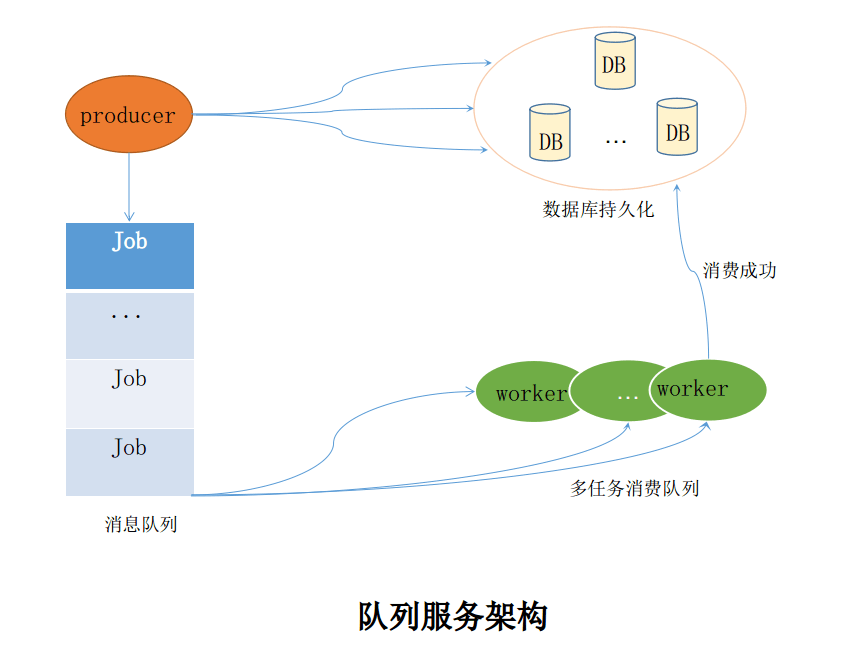
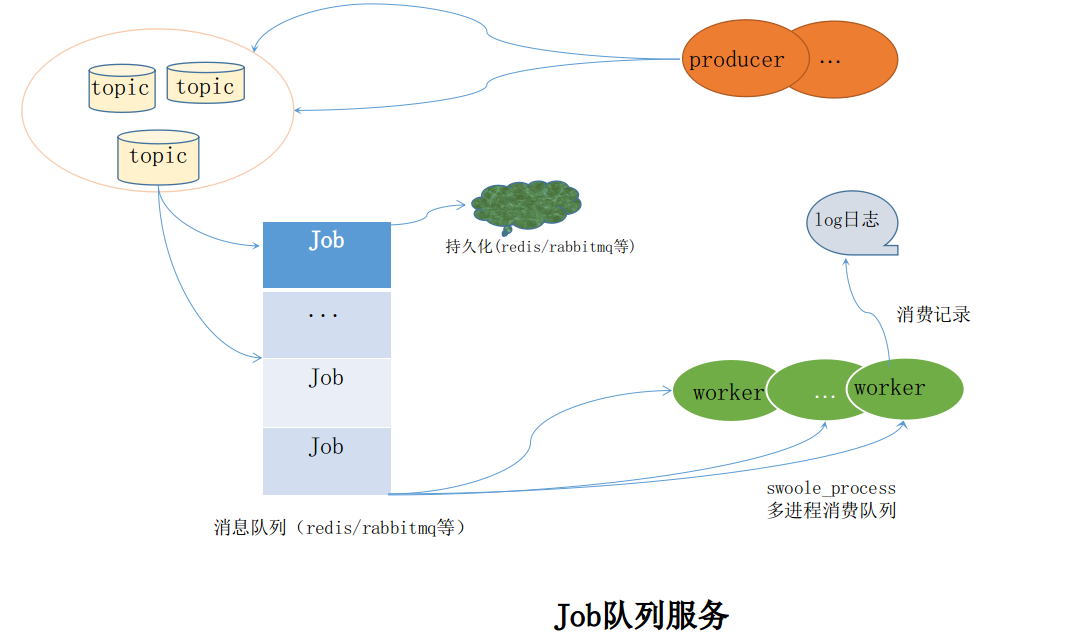
init

diff --git a/src/Jobs.php b/src/Jobs.php
@@ -2,44 +2,55 @@
 
 namespace Kcloze\Jobs;
 
-use Kcloze\Queue;
-
 class Jobs
 {
 
-    const MAX_POP = 100; //单个topic每次最多取多少次
+    const MAX_POP = 10; //单个topic每次最多取多少次
 
     public function run($config)
     {
-
-        $queue = new Queue($config);
+        $queue = new Redis($config);
         while (true) {
-            $topics = $queue->getTopics();
-            //遍历topic任务列表
-            foreach ($topics as $jobAction => $data) {
-                //每次最多取MAX_POP个任务执行
-                for ($i = 0; $i < self::MAX_POP; $i++) {
-                    $data = $queue->pop($jobAction);
-                    if (!empty($data) && method_exists($this, $jobAction . 'Action')) {
-                        $this->$jobAction . 'Action'($data);
-                    } else {
-                        echo "action not exists!\n";
-                    }
 
+            $topics = $queue->getTopics();
+            if ($topics) {
+
+                //遍历topic任务列表
+                foreach ($topics as $key => $jobName) {
+                    //每次最多取MAX_POP个任务执行
+                    for ($i = 0; $i < self::MAX_POP; $i++) {
+                        $data = $queue->pop($jobName);
+
+                        if (!empty($data) && isset($data['jobAction'])) {
+                            $jobName   = "Kcloze\MyJob\\" . ucfirst($jobName);
+                            $jobAction = $data['jobAction'];
+                            var_dump($jobName, $jobAction);
+                            if (method_exists($jobName, $jobAction)) {
+                                try {
+                                    $job = new $jobName();
+                                    $job->$jobAction($data);
+                                    var_dump($data);
+                                    echo ("one job has been done!\n");
+                                } catch (Exception $e) {
+                                    var_dump($e);
+                                }
+                            } else {
+                                echo ("action not find\n");
+                            }
+
+                        } else {
+                            break;
+                        }
+
+                    }
                 }
+            } else {
+                echo "no work to do!\n";
             }
+            echo "sleep one second!\n";
             sleep(1);
         }
 
     }
 
-    /**
-     * job action
-     * @param  [data] string
-     * @return [type]
-     */
-    public function helloAction($data)
-    {
-        echo "hello, world\n";
-    }
 }

diff --git a/src/Process.php b/src/Process.php
@@ -14,12 +14,14 @@ class Process
 {
     private $reserveProcess;
     private $workNum = 5;
+    private $config  = [];
 
     //const LOG_PATH = '/data/';
 
-    public function start()
+    public function start($config)
     {
-        \swoole_process::daemon();
+        //\swoole_process::daemon();
+        $this->config = $config;
         //开启多个进程消费队列
         for ($i = 0; $i < $this->workNum; $i++) {
             $this->reserveQueue($i);
@@ -33,7 +35,7 @@ class Process
         //$this->log('starting to run');
         $self = $this;
         $pid  = getmypid();
-        file_put_contents(APP_PATH . '/data/master.pid.log', $pid . "\n");
+        file_put_contents($this->config['logPath'] . '/master.pid.log', $pid . "\n");
         \swoole_set_process_name("job master " . $pid . " : reserve process");
         $this->reserveProcess = new \swoole_process(function () use ($self, $workNum) {
 
@@ -42,8 +44,8 @@ class Process
             //设置进程名字
             swoole_set_process_name("job " . $workNum . ": reserve process");
             try {
-                $job = Jobs();
-                $job->run();
+                $job = new Jobs();
+                $job->run($this->config);
             } catch (Exception $e) {
                 echo $e->getMessage();
             }
@@ -63,7 +65,7 @@ class Process
 
     private function log($txt)
     {
-        file_put_contents(APP_PATH . '/data/worker.log', $txt . "\n", FILE_APPEND);
+        file_put_contents($this->config['logPath'] . '/worker.log', $txt . "\n", FILE_APPEND);
     }
 
 }

diff --git a/test/testJobs.php b/test/testJobs.php
@@ -1,26 +1,30 @@
 <?php
 date_default_timezone_set('Asia/Shanghai');
-define('DS', DIRECTORY_SEPARATOR);
-define('APP_PATH', realpath(dirname(__FILE__)) . DS . '..' . DS);
 
-require_once APP_PATH . 'src/Jobs.php';
-require_once APP_PATH . 'src/Queue.php';
-require_once APP_PATH . 'src/Process.php';
+require __DIR__ . '/../vendor/autoload.php';
 
-$config = ['host' => '127.0.0.1', 'port' => 6379];
+$config = [
+    'queue'   => ['host' => '127.0.0.1', 'port' => 6379],
+    'logPath' => __DIR__ . '/../log',
+];
 
-$queue = new Kcloze\Jobs\Queue($config);
+$queue = new Kcloze\Jobs\Redis($config);
 
 //jobs必须要存在helloAction方法，否则无效
-$jobAction = 'hello';
-$queue->addTopic($jobAction);
+$jobName = 'MyJob';
+$queue->addTopic($jobName);
+$topics = $queue->getTopics();
+var_dump($topics);
 
-for ($i = 0; $i < 100; $i++) {
-    $data = ['title' => 'kcloze', 'time' => time()];
-    $queue->push($jobAction, $data);
+for ($i = 0; $i < 10; $i++) {
+    $data = ['jobAction' => 'helloAction', 'title' => 'kcloze', 'time' => time()];
+    $queue->push($jobName, $data);
     echo "ok\n";
+    //$result = $queue->pop($jobName);
+    //var_dump($result);
 }
-
+$result = $queue->pop($jobName);
+var_dump($result);
 // for ($i = 0; $i < 100; $i++) {
 //     $data = $queue->pop('hello');
 //     $jobs = new Jobs();

diff --git a/src/Redis.php b/src/Redis.php
@@ -1,0 +1,49 @@
+<?php
+/**
+ *
+ * redis做队列服务
+ * 如果需要使用rabbitmq/zeromq等其他队列，可以继承queue类
+ */
+
+namespace Kcloze\Jobs;
+
+use Kcloze\Jobs\Queue;
+
+class Redis extends Queue
+{
+    const TOPIC_LIST_NAME = 'topic_list';
+
+    private $redis = null;
+
+    public function __construct(array $config)
+    {
+        $this->redis = new \Redis();
+        try {
+            $this->redis->connect($config['queue']['host'], $config['queue']['port']);
+        } catch (Exception $e) {
+            echo $e->getMessage() . "\n";
+        }
+    }
+
+    public function push($key, $value)
+    {
+        return $this->redis->lPush($key, serialize($value));
+    }
+
+    public function pop($key)
+    {
+        $result = $this->redis->lPop($key);
+        return $result ? unserialize($result) : false;
+    }
+
+    public function addTopic($key)
+    {
+        return $this->redis->sAdd(self::TOPIC_LIST_NAME, $key);
+    }
+
+    public function getTopics()
+    {
+        return $this->redis->sMembers(self::TOPIC_LIST_NAME);
+    }
+
+}

diff --git a/src/Queue.php b/src/Queue.php
@@ -1,45 +1,25 @@
 <?php
 /**
  *
- * 队列封装
  */
-
 namespace Kcloze\Jobs;
 
-class Queue
+abstract class Queue
 {
-    const TOPIC_LIST_NAME = 'topic_list';
-
-    private $redis = null;
-
-    public function __construct(array $config)
-    {
-        $this->redis = new \Redis();
-        try {
-            $this->redis->connect($config['host'], $config['port']);
-        } catch (Exception $e) {
-            echo $e->getMessage() . "\n";
-        }
-    }
 
     public function push($key, $value)
     {
-        return $this->redis->lPush($key, $value);
     }
 
     public function pop($key)
     {
-        return $this->redis->lPop($key);
     }
 
     public function addTopic($key)
     {
-        return $this->redis->sAdd(self::TOPIC_LIST_NAME, $key);
     }
 
-    public function getTopics($key)
+    public function getTopics()
     {
-        return $this->redis->sort(self::TOPIC_LIST_NAME);
     }
-
 }

diff --git a/test/testProcess.php b/test/testProcess.php
@@ -1,12 +1,13 @@
 <?php
 date_default_timezone_set('Asia/Shanghai');
-define('DS', DIRECTORY_SEPARATOR);
-define('APP_PATH', realpath(dirname(__FILE__)) . DS . '..' . DS);
 
-require_once APP_PATH . 'src/Jobs.php';
-require_once APP_PATH . 'src/Queue.php';
-require_once APP_PATH . 'src/Process.php';
+require __DIR__ . '/../vendor/autoload.php';
+
+$config = [
+    'queue'   => ['host' => '127.0.0.1', 'port' => 6379],
+    'logPath' => __DIR__ . '/../log',
+];
 
 //启动
 $process = new Kcloze\Jobs\Process();
-$process->start();
+$process->start($config);

diff --git a/test/jobs/MyJob.php b/test/jobs/MyJob.php
@@ -1,0 +1,14 @@
+<?php
+namespace Kcloze\MyJob;
+
+use Kcloze\Jobs\Jobs;
+
+class MyJob extends Jobs
+{
+
+    public function helloAction($data)
+    {
+        sleep(1);
+        echo "hello, world\n";
+    }
+}

diff --git a/README.md b/README.md
@@ -1,12 +1,14 @@
 #swoole-jobs
+* 基于swoole的job调度组件
 
 ##使用场景
 * web中较慢的逻辑，比如统计／email／短信
-* 可以接受适当延迟
+* 通过配置控制worker进程数
 
 ##目标
 * 基于swoole的job调度组件
-* 利用swoole的process实现多进程
+* redis/rabbitmq/zeromq等任何一种做队列消息存储
+* 利用swoole的process实现多进程管理
 * 支持topic特性，不同的job绑定不同的topic
 * 支持composer，可以跟任意框架集成
 
@@ -18,7 +20,10 @@
 
 ##示例
 
+
 ```
+composer update
+
 //启动多进程消化job
 php test/testProcess.php
 
